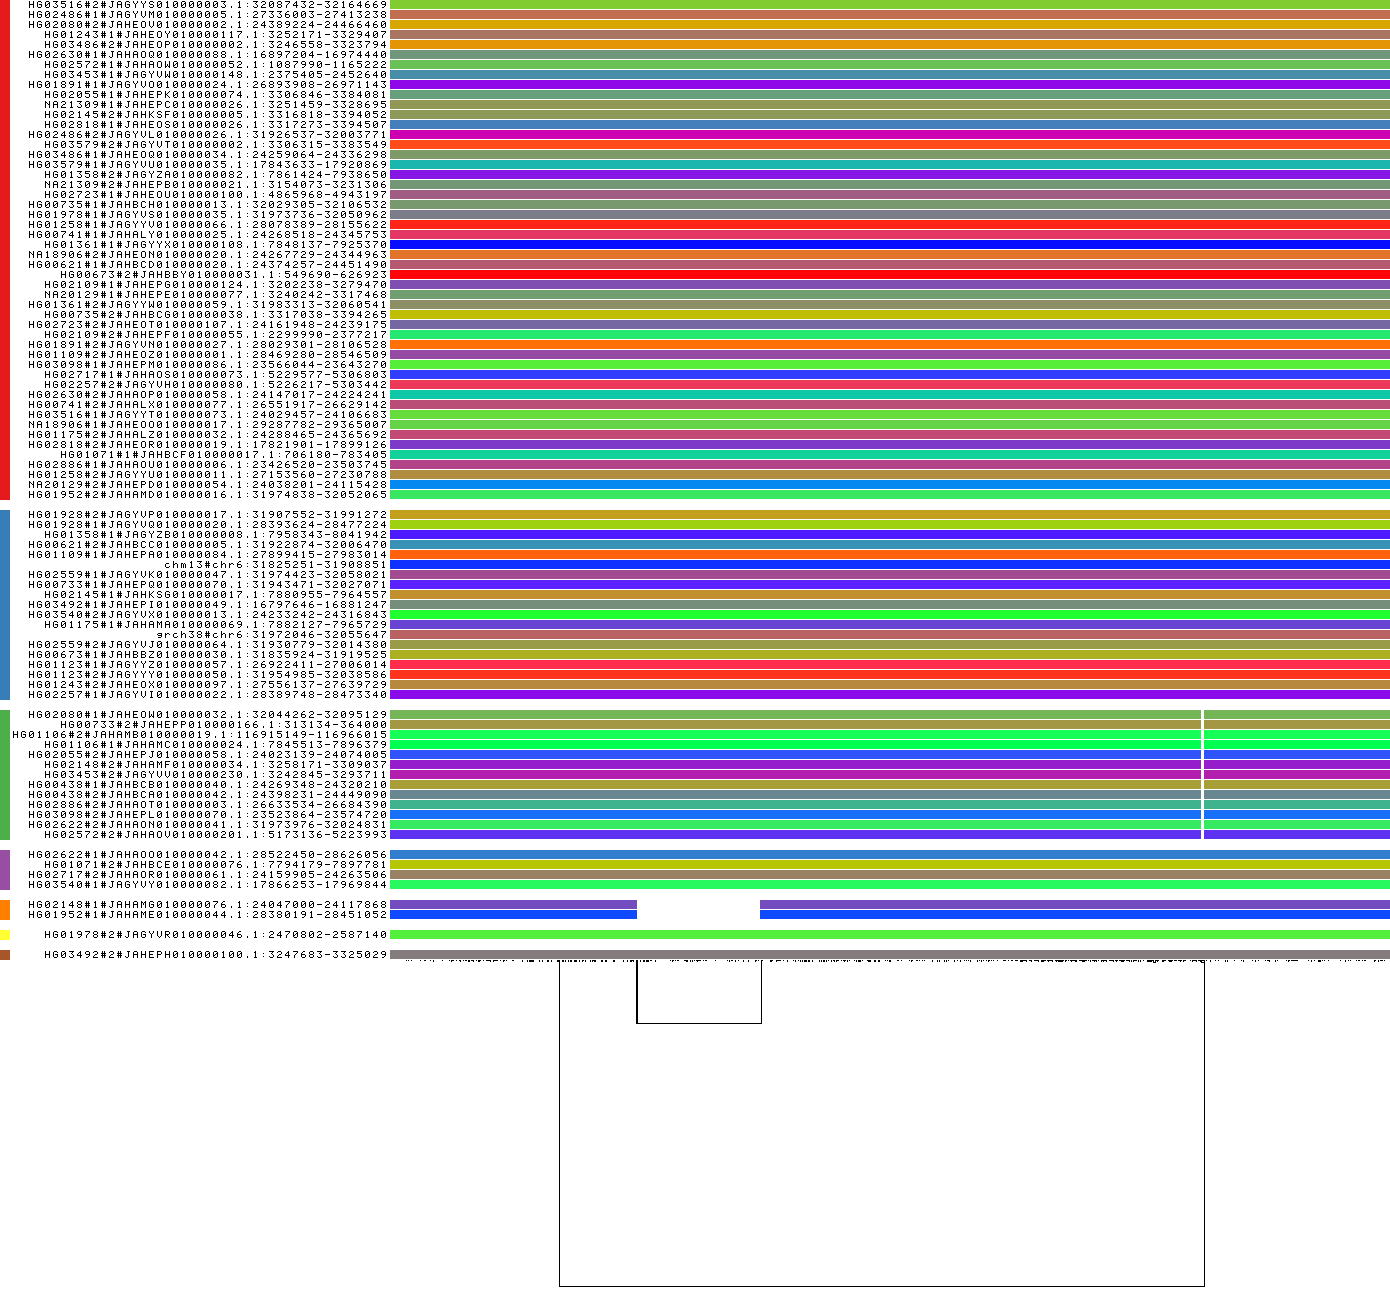
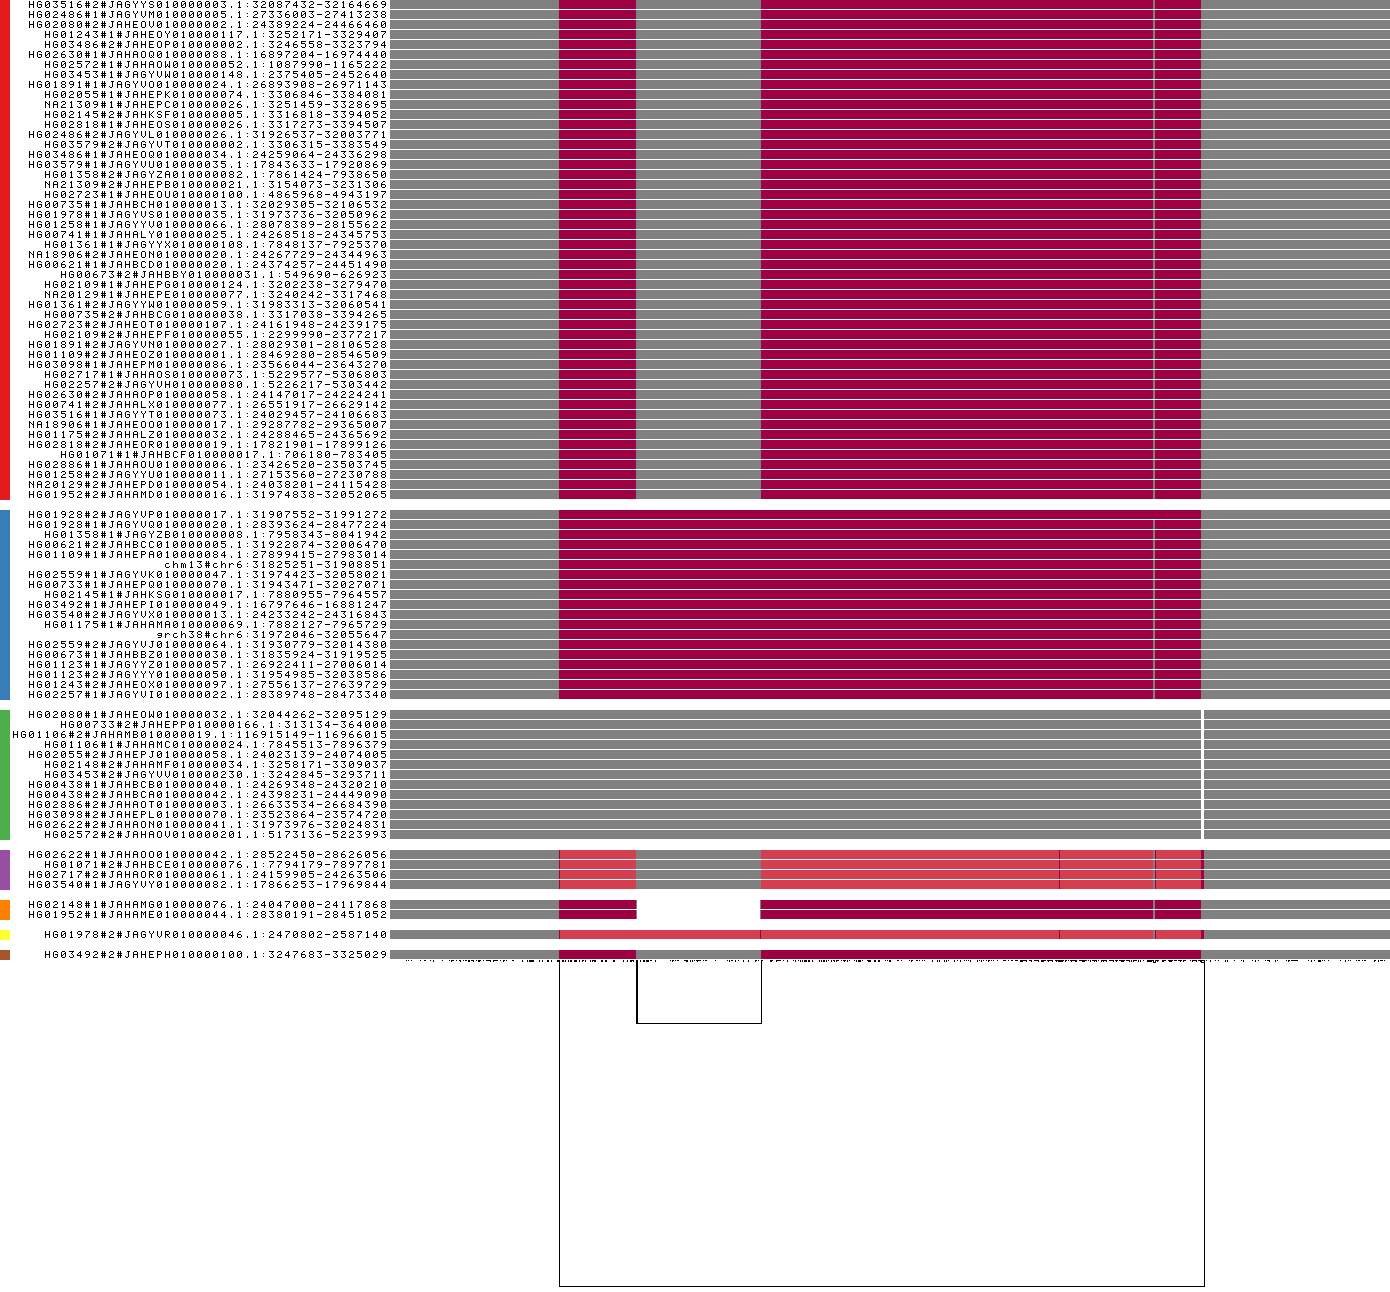
Update README to enhance path clustering section with combined usage of `-m` option for improved visibility; add new clustered image asset

diff --git a/README.md b/README.md
@@ -107,10 +107,10 @@ gfalook -i graph.gfa -o compressed.png -x 1000 -y 100 -O
 
 ### Path clustering (`-k`)
 
-Automatically cluster and reorder paths by similarity. Colored bars on the left indicate cluster membership:
+Automatically cluster and reorder paths by similarity. Colored bars on the left indicate cluster membership. Combined with `-m` for better visibility:
 
 ```bash
-gfalook -i graph.gfa -o clustered.png -x 1000 -y 500 -k
+gfalook -i graph.gfa -o clustered.png -x 1000 -y 500 -k -m
 ```
 
 ![Path clustering](images/clustered.png)
